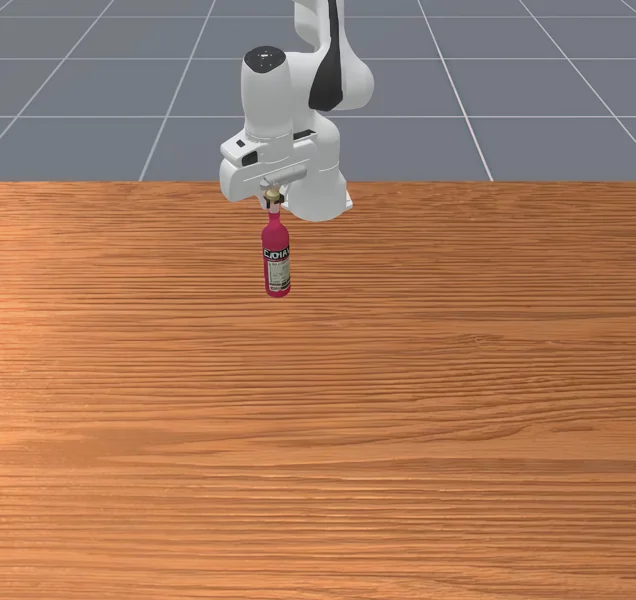
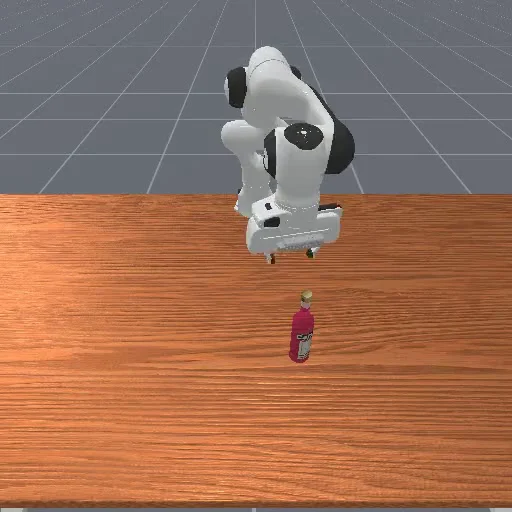
Unify homepage layout and show competition tasks in a responsive gallery

diff --git a/_sass/_personal.scss b/_sass/_personal.scss
@@ -11,6 +11,9 @@
   --wash: #f0f3ee;
   --serif: "Literata", "Iowan Old Style", "Songti SC", Georgia, serif;
   --sans: "DM Sans", "PingFang SC", "Hiragino Sans GB", sans-serif;
+  --page-width: 1120px;
+  --section-label: 148px;
+  --section-gap: 40px;
 }
 
 :root[data-theme="dark"] {
@@ -46,7 +49,7 @@ figcaption { color: var(--muted); font-family: var(--sans); }
 .skip-link:focus { transform: translateY(0); }
 .masthead, #main { animation: none; }
 .masthead { background: var(--canvas); border-bottom: 1px solid var(--rule); }
-.masthead__inner-wrap { display: flex; align-items: center; gap: 28px; max-width: 1120px; min-height: 72px; margin: auto; padding: 0 24px; font-family: var(--sans); }
+.masthead__inner-wrap { display: flex; align-items: center; gap: 28px; max-width: var(--page-width); min-height: 68px; margin: auto; padding: 0 24px; font-family: var(--sans); }
 .site-signature { flex-shrink: 0; color: var(--ink) !important; font: 500 21px/1.3 var(--serif); text-decoration: none; white-space: nowrap; }
 .site-signature span { color: var(--rose); }
 .primary-navigation { margin-left: auto; }
@@ -58,7 +61,7 @@ figcaption { color: var(--muted); font-family: var(--sans); }
 .utility-controls { display: flex; align-items: center; gap: 2px; padding-left: 14px; border-left: 1px solid var(--rule); }
 .utility-btn { display: inline-flex; justify-content: center; align-items: center; min-width: 44px; min-height: 44px; padding: 0 7px; border: 0; border-radius: 3px; background: transparent; color: var(--muted) !important; font-size: 12px; font-weight: 500; text-decoration: none; cursor: pointer; }
 .utility-btn:hover { background: var(--wash); color: var(--ink) !important; }
-body.no-sidebar #main { max-width: 1060px; margin: 0 auto; padding: 0 24px; }
+body.no-sidebar #main { max-width: var(--page-width); margin: 0 auto; padding: 0 24px; }
 body.no-sidebar .page { float: none; width: 100%; margin: 0; padding: 0; }
 .page .page__inner-wrap, .page .page__content { float: none; width: 100%; margin: 0; }
 .page__content { font-size: 1rem; line-height: 1.8; overflow-wrap: break-word; }
@@ -66,11 +69,13 @@ body.no-sidebar .page { float: none; width: 100%; margin: 0; padding: 0; }
 .page__content p { margin: 0 0 14px; }
 .page__content h2 { margin: 0 0 26px; font: 500 27px/1.35 var(--serif); letter-spacing: -.025em; }
 .page__content h3 { margin: 0 0 8px; font: 600 18px/1.5 var(--sans); }
-.home-section { padding: 40px 0; border-top: 1px solid var(--rule); scroll-margin-top: 0; }
+.home-section { display: grid; grid-template-columns: var(--section-label) minmax(0, 1fr); gap: var(--section-gap); align-items: start; padding: 36px 0; border-top: 1px solid var(--rule); scroll-margin-top: 0; }
+.page__content .home-section > h2 { margin: 0; font-size: 21px; line-height: 1.45; text-wrap: initial; }
+.home-section > :not(h2) { min-width: 0; }
 #about, #honors, #services { scroll-margin-top: 0; }
-.hero-panel { display: grid; grid-template-columns: minmax(0, 1fr) 168px; align-items: start; gap: 72px; padding: 64px 0 48px; }
+.hero-panel { display: grid; grid-template-columns: minmax(0, 1fr) 152px; align-items: start; gap: 64px; padding: 48px 0 40px; }
 .hero-copy { min-width: 0; }
-.page__content .hero-title { display: flex; align-items: baseline; flex-wrap: wrap; gap: 18px; margin: 0 0 14px; padding: 0; border: 0; font: 500 clamp(36px, 4.6vw, 49px)/1.2 var(--serif); letter-spacing: -.055em; }
+.page__content .hero-title { display: flex; align-items: baseline; flex-wrap: wrap; gap: 18px; margin: 0 0 14px; padding: 0; border: 0; font: 500 clamp(36px, 4.6vw, 46px)/1.2 var(--serif); letter-spacing: -.055em; }
 .hero-title span { color: var(--muted); font-size: 20px; font-weight: 400; letter-spacing: .07em; }
 .page__content .hero-subtitle { margin: 0; font-size: 17px; font-weight: 500; }
 .page__content .hero-affiliation { display: flex; gap: 18px; flex-wrap: wrap; margin: 3px 0 24px; color: var(--muted); font-size: 14px; }
@@ -79,7 +84,7 @@ body.no-sidebar .page { float: none; width: 100%; margin: 0; padding: 0; }
 .page__content .hero-note { max-width: 60ch; margin: 22px 0; padding-left: 14px; border-left: 2px solid var(--rose); color: var(--muted); font: italic 400 16px/1.8 var(--serif); }
 html[lang="zh-CN"] .hero-note { font-style: normal; }
 .hero-portrait { padding-top: 7px; }
-.hero-portrait img { width: 168px; height: 168px; border-radius: 6px; background: #f8f8f8; }
+.hero-portrait img { width: 152px; height: 152px; border-radius: 6px; background: #f8f8f8; }
 .hero-portrait figcaption { margin-top: 13px; color: var(--muted); font: italic 400 12px/1.7 var(--serif); }
 html[lang="zh-CN"] .hero-portrait figcaption { font-style: normal; }
 .research-line { display: flex; align-items: baseline; gap: 20px; flex-wrap: wrap; margin: 22px 0 8px; }
@@ -93,26 +98,29 @@ html[lang="zh-CN"] .hero-portrait figcaption { font-style: normal; }
 .event-item:last-child { margin-bottom: 0; }
 .event-item time { padding-top: 2px; color: var(--muted); font-size: 13px; font-variant-numeric: tabular-nums; }
 .event-item p { margin: 0; font-size: 14px; line-height: 1.8; }
-.competition-teaser { --demo-size: 360px; display: grid; grid-template-columns: minmax(0, 1fr) minmax(0, var(--demo-size)); gap: 56px; align-items: start; }
-.competition-copy { display: flex; flex-direction: column; justify-content: center; min-height: var(--demo-size); }
-.page__content .competition-context { margin-bottom: 10px; color: var(--muted); font-size: 12px; }
-.page__content .competition-copy h3 { margin-bottom: 8px; font: 500 22px/1.45 var(--serif); letter-spacing: -.025em; }
-.page__content .competition-meta { margin-bottom: 16px; color: var(--muted); font-size: 13px; }
-.page__content .competition-summary { max-width: 48ch; margin-bottom: 10px; font-size: 14px; line-height: 1.85; }
+.competition-teaser { min-width: 0; }
+.competition-copy { display: grid; grid-template-columns: minmax(0, 1fr) auto; column-gap: 24px; margin-bottom: 20px; }
+.competition-copy > :not(.text-links) { grid-column: 1; }
+.competition-copy .text-links { grid-column: 2; grid-row: 1 / 4; align-self: start; justify-content: flex-end; gap: 4px 16px; }
+.page__content .competition-context { margin-bottom: 4px; color: var(--muted); font-size: 12px; }
+.page__content .competition-copy h3 { margin-bottom: 6px; font: 500 22px/1.45 var(--serif); letter-spacing: -.025em; }
+.page__content .competition-meta { margin-bottom: 8px; color: var(--muted); font-size: 13px; }
+.page__content .competition-summary { grid-column: 1 / -1; max-width: 74ch; margin-bottom: 0; font-size: 14px; line-height: 1.85; }
 .task-carousel { min-width: 0; }
-.task-carousel-track { display: flex; width: 100%; overflow-x: auto; scroll-snap-type: x mandatory; scrollbar-width: none; overscroll-behavior-x: contain; }
+.task-carousel-track { --visible-slides: 3; display: flex; gap: 12px; width: 100%; overflow-x: auto; scroll-snap-type: x mandatory; scrollbar-width: none; overscroll-behavior-x: contain; }
 .task-carousel-track::-webkit-scrollbar { display: none; }
 .task-carousel-track:focus-visible { outline: 2px solid var(--rose); outline-offset: 4px; }
-.task-slide { flex: 0 0 100%; min-width: 0; scroll-snap-align: start; }
+.task-slide { flex: 0 0 calc((100% - 24px) / 3); min-width: 0; scroll-snap-align: start; }
 .task-slide video { display: block; width: 100%; aspect-ratio: 1; object-fit: contain; border: 1px solid var(--rule); border-radius: 3px; background: var(--wash); }
 .task-slide figcaption { margin: 9px 0 0; font-size: 12px; }
-.carousel-controls { display: flex; justify-content: space-between; align-items: center; gap: 16px; }
+.carousel-toolbar { display: flex; align-items: center; justify-content: space-between; flex-wrap: wrap; gap: 4px 16px; margin-top: 8px; }
+.carousel-controls { display: flex; align-items: center; gap: 12px; margin-left: auto; }
 .carousel-pagination { display: flex; align-items: center; gap: 6px; }
 .carousel-controls button { display: inline-flex; align-items: center; justify-content: center; min-width: 44px; min-height: 44px; padding: 0 8px; border: 0; border-radius: 3px; color: var(--muted); background: transparent; font-size: 12px; cursor: pointer; }
 .carousel-controls button:hover:not(:disabled) { color: var(--rose); background: var(--wash); }
 .carousel-controls button:disabled { opacity: .35; cursor: default; }
 .carousel-count { color: var(--muted); font-size: 11px; font-variant-numeric: tabular-nums; }
-.page__content .task-carousel .media-credit { margin-top: 0; font-size: 11px; }
+.page__content .task-carousel .media-credit { margin: 0; font-size: 11px; }
 .page__content .back-link { margin: 0; padding-top: 32px; font-size: 13px; }
 .back-link + .document-title { margin-top: 16px; padding-top: 0; }
 .competition-detail { padding-bottom: 40px; }
@@ -129,18 +137,18 @@ html[lang="zh-CN"] .hero-portrait figcaption { font-style: normal; }
 .certificate-figure figcaption a { display: inline-flex; align-items: center; min-height: 32px; border: 0; color: var(--rose); font-size: 12px; text-decoration: underline; }
 .certificate-figure figcaption span { align-self: center; }
 .page__content .media-credit { margin: 14px 0 0; color: var(--muted); font-size: 12px; }
-.publication-item { display: grid; grid-template-columns: 52px minmax(0, 1fr); gap: 24px; padding: 25px 0; border-bottom: 1px solid var(--rule); }
+.publication-item { padding: 24px 0; border-bottom: 1px solid var(--rule); }
 .publication-item:first-child { padding-top: 0; }
 .publication-item:last-child { padding-bottom: 0; border: 0; }
-.publication-year { padding-top: 4px; color: var(--muted); font-size: 13px; font-variant-numeric: tabular-nums; }
-.publication-featured { grid-template-columns: 52px minmax(0, .95fr) minmax(0, 1.2fr); align-items: start; }
-.publication-figure { min-width: 0; align-self: center; }
+.publication-year { display: inline-block; margin-right: 12px; color: var(--ink); font-variant-numeric: tabular-nums; }
+.publication-featured { display: grid; grid-template-columns: minmax(0, 1fr) minmax(0, 2fr); gap: 24px; align-items: start; }
+.publication-figure { min-width: 0; }
 .publication-figure a { display: block; border: 1px solid var(--rule); border-radius: 3px; overflow: hidden; }
 .publication-figure a:hover { border-color: var(--rose); }
 .publication-figure img { display: block; width: 100%; height: auto; }
 .page__content .publication-figure a:hover img { box-shadow: none; }
 .publication-body { min-width: 0; }
-.page__content .publication-title { max-width: 75ch; margin: 0 0 8px; font: 500 18px/1.6 var(--sans); text-wrap: pretty; }
+.page__content .publication-title { max-width: 75ch; margin: 0 0 8px; font: 500 17px/1.55 var(--sans); text-wrap: pretty; }
 .publication-title a { color: var(--ink); text-decoration: none; }
 .publication-title a:hover { color: var(--rose); text-decoration: underline; }
 .publication-meta p { margin: 0 0 3px; color: var(--muted); font-size: 13px; }
@@ -148,22 +156,23 @@ html[lang="zh-CN"] .hero-portrait figcaption { font-style: normal; }
 .page__content .publication-venue { margin: 0 0 8px; color: var(--muted); font-size: 13px; }
 .publication-note { display: inline-block; margin-left: 12px; color: var(--rose); font-size: 11px; }
 .page__content .publication-summary { max-width: 74ch; margin: 5px 0; color: var(--muted); font-size: 13px; }
-.timeline-item { display: grid; grid-template-columns: 170px minmax(0, 1fr); gap: 24px; margin-bottom: 22px; }
+.timeline-item { display: grid; grid-template-columns: 148px minmax(0, 1fr); gap: 24px; margin-bottom: 20px; }
 .timeline-item:last-child { margin-bottom: 0; }
 .page__content .timeline-date { padding-top: 3px; margin: 0; color: var(--muted); font-size: 13px; font-variant-numeric: tabular-nums; }
 .page__content .timeline h3 { margin: 0; font-size: 15px; font-weight: 500; }
 .timeline-item > div p { margin: 3px 0 0; color: var(--muted); font-size: 13px; }
-.background-columns { display: grid; grid-template-columns: 1.2fr 1fr; gap: 64px; }
+.background-columns { display: block; }
+.service-list { display: flex; flex-wrap: wrap; gap: 16px 64px; }
 .plain-list { margin: 0; padding: 0; list-style: none; }
 .plain-list li { display: grid; grid-template-columns: 42px minmax(0, 1fr); gap: 18px; margin-bottom: 18px; font-size: 13px; line-height: 1.85; }
 .list-date { color: var(--muted); font-size: 12px; font-variant-numeric: tabular-nums; }
 .page__content .service-entry { margin-bottom: 18px; color: var(--muted); font-size: 13px; }
 .service-entry strong { color: var(--ink); font-weight: 500; }
-.contact-section { padding-bottom: 54px; }
+.contact-section { padding-bottom: 40px; }
 .page__content .contact-section h2 { margin-bottom: 16px; }
 .page__content .contact-section p { color: var(--muted); font-size: 14px; }
 .contact-email { display: inline-block; font: 400 clamp(20px, 4vw, 28px)/1.6 var(--serif); }
-.site-footer { display: flex; align-items: center; justify-content: space-between; flex-wrap: wrap; gap: 18px; max-width: 1012px; margin: 0 auto; padding: 26px 0 32px; border-top: 1px solid var(--rule); color: var(--muted); font-size: 12px; }
+.site-footer { display: flex; align-items: center; justify-content: space-between; flex-wrap: wrap; gap: 18px; max-width: 1072px; margin: 0 auto; padding: 26px 0 32px; border-top: 1px solid var(--rule); color: var(--muted); font-size: 12px; }
 .site-footer p { margin: 0; color: var(--rose); font: italic 400 14px/1.8 var(--serif); letter-spacing: 0; }
 .site-footer a { min-height: 36px; display: inline-flex; align-items: center; }
 .document-title { padding-top: 48px; font: 500 36px/1.4 var(--serif); }
@@ -178,7 +187,7 @@ html[lang="zh-CN"] .hero-portrait figcaption { font-style: normal; }
 .certificate-original { display: inline-flex; align-items: center; min-height: 44px; margin-top: 10px; font-size: 13px; }
 body.modal-open { overflow: hidden; }
 
-@media (max-width: 1100px) { .site-footer { margin-right: 24px; margin-left: 24px; } }
+@media (max-width: 1120px) { .site-footer { margin-right: 24px; margin-left: 24px; } }
 @media (max-width: 960px) {
   .masthead__inner-wrap { gap: 18px; min-height: 64px; }
   .primary-navigation { order: 3; margin-left: 0; }
@@ -189,7 +198,7 @@ body.modal-open { overflow: hidden; }
   .js .masthead__links.is-open { display: grid; grid-template-columns: 1fr 1fr 1fr; gap: 4px 16px; }
   .masthead__links a { min-height: 44px; font-size: 14px; }
   .hero-panel { gap: 40px; }
-  .competition-teaser { --demo-size: 300px; gap: 28px; }
+  .home-section { grid-template-columns: 1fr; gap: 22px; }
 }
 @media (max-width: 680px) {
   .masthead__inner-wrap { padding: 0 20px; gap: 14px; }
@@ -210,19 +219,20 @@ body.modal-open { overflow: hidden; }
   .research-line { gap: 8px 16px; margin: 0; }
   .research-line ul { gap: 18px; }
   .hero-links { gap: 2px 20px; margin: -8px 0 0; }
-  .home-section { padding: 30px 0; }
+  .home-section { padding: 28px 0; gap: 18px; }
   .page__content h2 { margin-bottom: 22px; font-size: 24px; }
   .event-item { grid-template-columns: 60px minmax(0, 1fr); gap: 14px; margin-bottom: 14px; }
   .event-item time { font-size: 11px; }
   .event-item p { font-size: 13px; }
-  .competition-teaser { grid-template-columns: 1fr; gap: 18px; }
-  .competition-copy { min-height: 0; }
-  .competition-teaser .task-carousel { width: 100%; max-width: 360px; justify-self: center; }
+  .competition-copy { display: block; margin-bottom: 16px; }
+  .competition-copy .text-links { justify-content: flex-start; margin-top: 8px; }
+  .task-carousel-track { --visible-slides: 2; }
+  .task-slide { flex-basis: calc((100% - 12px) / 2); }
   .page__content .competition-copy h3 { font-size: 22px; }
   .page__content .media-credit { font-size: 12px; }
-  .publication-item { grid-template-columns: 1fr; gap: 5px; padding: 24px 0; }
-  .publication-featured { gap: 14px; }
-  .publication-year { padding: 0; font-size: 11px; }
+  .publication-item { padding: 22px 0; }
+  .publication-featured { grid-template-columns: 1fr; gap: 18px; }
+  .publication-figure { max-width: 420px; }
   .page__content .publication-title { font-size: 16px; }
   .publication-meta p, .page__content .publication-venue, .page__content .publication-summary { font-size: 12px; }
   .timeline-item { grid-template-columns: 1fr; gap: 4px; margin-bottom: 24px; }
@@ -233,6 +243,12 @@ body.modal-open { overflow: hidden; }
   .site-footer a { margin-left: auto; }
   .certificate-dialog { padding: 12px; }
   .dialog-heading h2 { font-size: 15px; }
+}
+@media (max-width: 480px) {
+  .task-carousel-track { --visible-slides: 1; }
+  .task-slide { flex-basis: 100%; }
+  .carousel-toolbar { gap: 0; }
+  .carousel-toolbar .media-credit { flex-basis: 100%; }
 }
 @media (max-width: 380px) {
   .masthead__inner-wrap { padding: 0 16px; gap: 8px; }

diff --git a/assets/js/site-controls.js b/assets/js/site-controls.js
@@ -68,16 +68,30 @@ window.addEventListener("DOMContentLoaded", function () {
     var targetIndex = null;
     var scheduled = false;
     if (!track || slides.length < 2 || !controls) return;
+    function visibleCount() {
+      return parseInt(window.getComputedStyle(track).getPropertyValue("--visible-slides"), 10) || 1;
+    }
+    function lastIndex() { return Math.max(0, slides.length - visibleCount()); }
+    function slideStep() {
+      return slides[1].getBoundingClientRect().left - slides[0].getBoundingClientRect().left;
+    }
+    function scrollPosition(target) {
+      return Math.min(target * slideStep(), track.scrollWidth - track.clientWidth);
+    }
+    function readIndex() {
+      return Math.max(0, Math.min(lastIndex(), Math.round(track.scrollLeft / slideStep())));
+    }
     function updateControls() {
       previous.disabled = index === 0;
-      next.disabled = index === slides.length - 1;
-      counter.textContent = (index + 1) + " / " + slides.length;
+      next.disabled = index === lastIndex();
+      var end = Math.min(slides.length, index + visibleCount());
+      counter.textContent = (index + 1) + (end > index + 1 ? "–" + end : "") + " / " + slides.length;
     }
     function moveTo(target, animate) {
-      index = Math.max(0, Math.min(slides.length - 1, target));
+      index = Math.max(0, Math.min(lastIndex(), target));
       targetIndex = index;
       var reduceMotion = window.matchMedia("(prefers-reduced-motion: reduce)").matches;
-      track.scrollTo({ left: index * track.clientWidth, behavior: animate && !reduceMotion ? "smooth" : "auto" });
+      track.scrollTo({ left: scrollPosition(index), behavior: animate && !reduceMotion ? "smooth" : "auto" });
       updateControls();
     }
     previous.addEventListener("click", function () { moveTo(index - 1, true); });
@@ -94,16 +108,16 @@ window.addEventListener("DOMContentLoaded", function () {
       window.requestAnimationFrame(function () {
         scheduled = false;
         if (targetIndex !== null) {
-          if (Math.abs(track.scrollLeft - targetIndex * track.clientWidth) > 1) return;
+          if (Math.abs(track.scrollLeft - scrollPosition(targetIndex)) > 1) return;
           targetIndex = null;
         }
-        index = Math.max(0, Math.min(slides.length - 1, Math.round(track.scrollLeft / track.clientWidth)));
+        index = readIndex();
         updateControls();
       });
     }, { passive: true });
     function resumeManualScroll() {
       targetIndex = null;
-      index = Math.max(0, Math.min(slides.length - 1, Math.round(track.scrollLeft / track.clientWidth)));
+      index = readIndex();
       updateControls();
     }
     track.addEventListener("pointerdown", resumeManualScroll, { passive: true });

diff --git a/_includes/task-carousel.html b/_includes/task-carousel.html
@@ -10,13 +10,15 @@
     </figure>
     {% endfor %}
   </div>
-  <div class="carousel-controls" hidden>
-    <button class="demo-toggle" type="button" aria-controls="metafine-demo-{{ competition.demos | map: 'id' | join: ' metafine-demo-' }}" aria-pressed="false" hidden>{% if zh %}播放{% else %}Play{% endif %}</button>
-    <div class="carousel-pagination">
-      <button class="carousel-prev" type="button" aria-controls="metafine-task-track" aria-label="{% if zh %}上一个任务{% else %}Previous task{% endif %}"><svg aria-hidden="true" width="16" height="16" viewBox="0 0 16 16" fill="none"><path d="m10 3-5 5 5 5" stroke="currentColor" stroke-width="1.4"/></svg></button>
-      <span class="carousel-count" aria-live="polite" aria-atomic="true">1 / {{ competition.demos.size }}</span>
-      <button class="carousel-next" type="button" aria-controls="metafine-task-track" aria-label="{% if zh %}下一个任务{% else %}Next task{% endif %}"><svg aria-hidden="true" width="16" height="16" viewBox="0 0 16 16" fill="none"><path d="m6 3 5 5-5 5" stroke="currentColor" stroke-width="1.4"/></svg></button>
+  <div class="carousel-toolbar">
+    <p class="media-credit">{% if zh %}演示来源：{% else %}Official demos: {% endif %}<a href="{{ competition.competition_url }}">MetaFine{% if zh %} 官方{% endif %}</a></p>
+    <div class="carousel-controls" hidden>
+      <button class="demo-toggle" type="button" aria-controls="metafine-demo-{{ competition.demos | map: 'id' | join: ' metafine-demo-' }}" aria-pressed="false" hidden>{% if zh %}播放{% else %}Play{% endif %}</button>
+      <div class="carousel-pagination">
+        <button class="carousel-prev" type="button" aria-controls="metafine-task-track" aria-label="{% if zh %}上一个任务{% else %}Previous task{% endif %}"><svg aria-hidden="true" width="16" height="16" viewBox="0 0 16 16" fill="none"><path d="m10 3-5 5 5 5" stroke="currentColor" stroke-width="1.4"/></svg></button>
+        <span class="carousel-count" aria-live="polite" aria-atomic="true">1 / {{ competition.demos.size }}</span>
+        <button class="carousel-next" type="button" aria-controls="metafine-task-track" aria-label="{% if zh %}下一个任务{% else %}Next task{% endif %}"><svg aria-hidden="true" width="16" height="16" viewBox="0 0 16 16" fill="none"><path d="m6 3 5 5-5 5" stroke="currentColor" stroke-width="1.4"/></svg></button>
+      </div>
     </div>
   </div>
-  <p class="media-credit">{% if zh %}视频来源：{% else %}Task illustrations: {% endif %}<a href="{{ competition.competition_url }}">MetaFine {% if zh %}官方{% else %}organizers{% endif %}</a></p>
 </div>

diff --git a/_includes/publications.html b/_includes/publications.html
@@ -8,7 +8,6 @@
     {% assign ordered_publications = featured_publications | concat: other_publications %}
     {% for pub in ordered_publications %}
     <article class="publication-item{% if pub.selected and pub.image != '' %} publication-featured{% endif %}">
-      <div class="publication-year">{{ pub.year }}</div>
       {% if pub.selected and pub.image != '' %}
       <figure class="publication-figure">
         <a href="{{ pub.image | relative_url }}" target="_blank" rel="noopener" aria-label="{% if zh %}查看 AAAI 2026 论文方法图{% else %}View the AAAI 2026 method figure{% endif %}"><img src="{{ pub.image | relative_url }}" alt="{{ pub.image_alt }}" width="{{ pub.image_width }}" height="{{ pub.image_height }}" loading="lazy" decoding="async"></a>
@@ -17,7 +16,7 @@
       <div class="publication-body">
         <h3 class="publication-title"><a href="{{ pub.paper_url | relative_url }}">{{ pub.title }}</a></h3>
         <div class="publication-meta">{{ pub.authors | markdownify }}</div>
-        <p class="publication-venue">{{ pub.venue }}{% if pub.kind == "report" %}<span class="publication-note">{% if zh %}技术报告{% else %}Technical report{% endif %}</span>{% endif %}</p>
+        <p class="publication-venue"><span class="publication-year">{{ pub.year }}</span> {{ pub.venue }}{% if pub.kind == "report" %}<span class="publication-note">{% if zh %}技术报告{% else %}Technical report{% endif %}</span>{% endif %}</p>
         {% if pub.summary != "" %}<p class="publication-summary">{% if zh and pub.summary_zh %}{{ pub.summary_zh }}{% else %}{{ pub.summary }}{% endif %}</p>{% endif %}
         <div class="text-links">
           <a href="{{ pub.paper_url | relative_url }}">{% if zh %}论文{% else %}Paper{% endif %}</a>

diff --git a/_includes/competitions.html b/_includes/competitions.html
@@ -6,8 +6,8 @@
   <h2 id="competitions-heading">{% if zh %}竞赛{% else %}Competitions{% endif %}</h2>
   <article class="competition-teaser" aria-labelledby="competition-title">
     <div class="competition-copy">
-      <p class="competition-context">{{ competition.context }}</p>
       <h3 id="competition-title">{{ competition.title }}</h3>
+      <p class="competition-context">{{ competition.context }}</p>
       <p class="competition-meta">{% if zh %}MAI 团队 · 队长{% else %}MAI · Team leader{% endif %}</p>
       <p class="competition-summary">{% if zh %}{{ competition.summary_zh }}{% else %}{{ competition.summary_en }}{% endif %}</p>
       <div class="text-links">

diff --git a/_pages/about.md b/_pages/about.md
@@ -51,13 +51,17 @@ redirect_from:
   </section>
   <section id="services" class="home-section" aria-labelledby="services-heading">
     <h2 id="services-heading">Academic service</h2>
-    <p class="service-entry"><strong>Conference reviewer</strong><br>ACL Rolling Review</p>
-    <p class="service-entry"><strong>Journal reviewer</strong><br>Knowledge-Based Systems</p>
+    <div class="service-list">
+      <p class="service-entry"><strong>Conference reviewer</strong><br>ACL Rolling Review</p>
+      <p class="service-entry"><strong>Journal reviewer</strong><br>Knowledge-Based Systems</p>
+    </div>
   </section>
 </div>
 
 <section id="contact" class="home-section contact-section" aria-labelledby="contact-heading">
   <h2 id="contact-heading">Let's be in touch.</h2>
-  <p>I welcome conversations and research collaborations.</p>
-  <a class="contact-email" href="mailto:z1ivan@seu.edu.cn">z1ivan@seu.edu.cn</a>
+  <div class="contact-body">
+    <p>I welcome conversations and research collaborations.</p>
+    <a class="contact-email" href="mailto:z1ivan@seu.edu.cn">z1ivan@seu.edu.cn</a>
+  </div>
 </section>

diff --git a/_pages/about_zh.md b/_pages/about_zh.md
@@ -47,13 +47,17 @@ html_lang: zh-CN
   </section>
   <section id="services" class="home-section" aria-labelledby="services-heading">
     <h2 id="services-heading">学术服务</h2>
-    <p class="service-entry"><strong>会议审稿</strong><br>ACL Rolling Review</p>
-    <p class="service-entry"><strong>期刊审稿</strong><br>Knowledge-Based Systems</p>
+    <div class="service-list">
+      <p class="service-entry"><strong>会议审稿</strong><br>ACL Rolling Review</p>
+      <p class="service-entry"><strong>期刊审稿</strong><br>Knowledge-Based Systems</p>
+    </div>
   </section>
 </div>
 
 <section id="contact" class="home-section contact-section" aria-labelledby="contact-heading">
   <h2 id="contact-heading">联系我</h2>
-  <p>如果想交流研究或讨论合作，欢迎给我发邮件。</p>
-  <a class="contact-email" href="mailto:z1ivan@seu.edu.cn">z1ivan@seu.edu.cn</a>
+  <div class="contact-body">
+    <p>如果想交流研究或讨论合作，欢迎给我发邮件。</p>
+    <a class="contact-email" href="mailto:z1ivan@seu.edu.cn">z1ivan@seu.edu.cn</a>
+  </div>
 </section>
